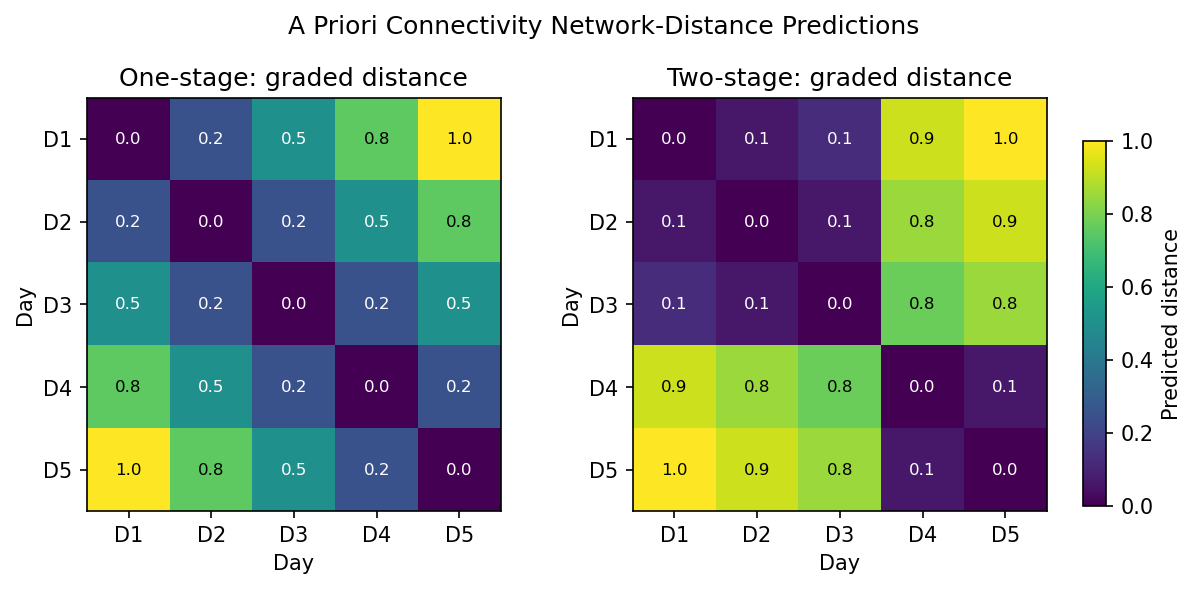
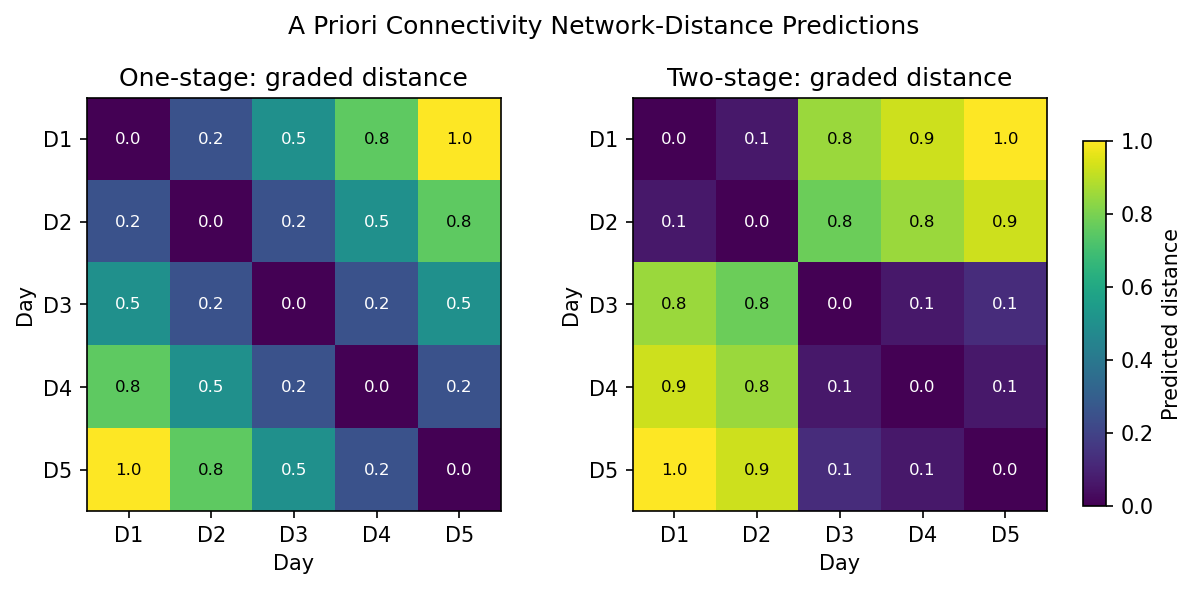
connect pred at dirrent trans point

Changed region(s): [[0.5259, 0.1528, 0.8972, 0.8862]]

diff --git a/code/connect_network_distance_prediction_figure.py b/code/connect_network_distance_prediction_figure.py
@@ -16,8 +16,8 @@ import numpy as np
 PROJECT_DIR = Path(__file__).resolve().parent.parent
 FIGURES_DIR = PROJECT_DIR / "figures"
 DAYS = [1, 2, 3, 4, 5]
-STAGE_A_DAYS = [1, 2, 3]
-STAGE_B_DAYS = [4, 5]
+STAGE_A_DAYS = [1, 2]
+STAGE_B_DAYS = [3, 4, 5]
 
 
 def same_stage(day_i, day_j):
